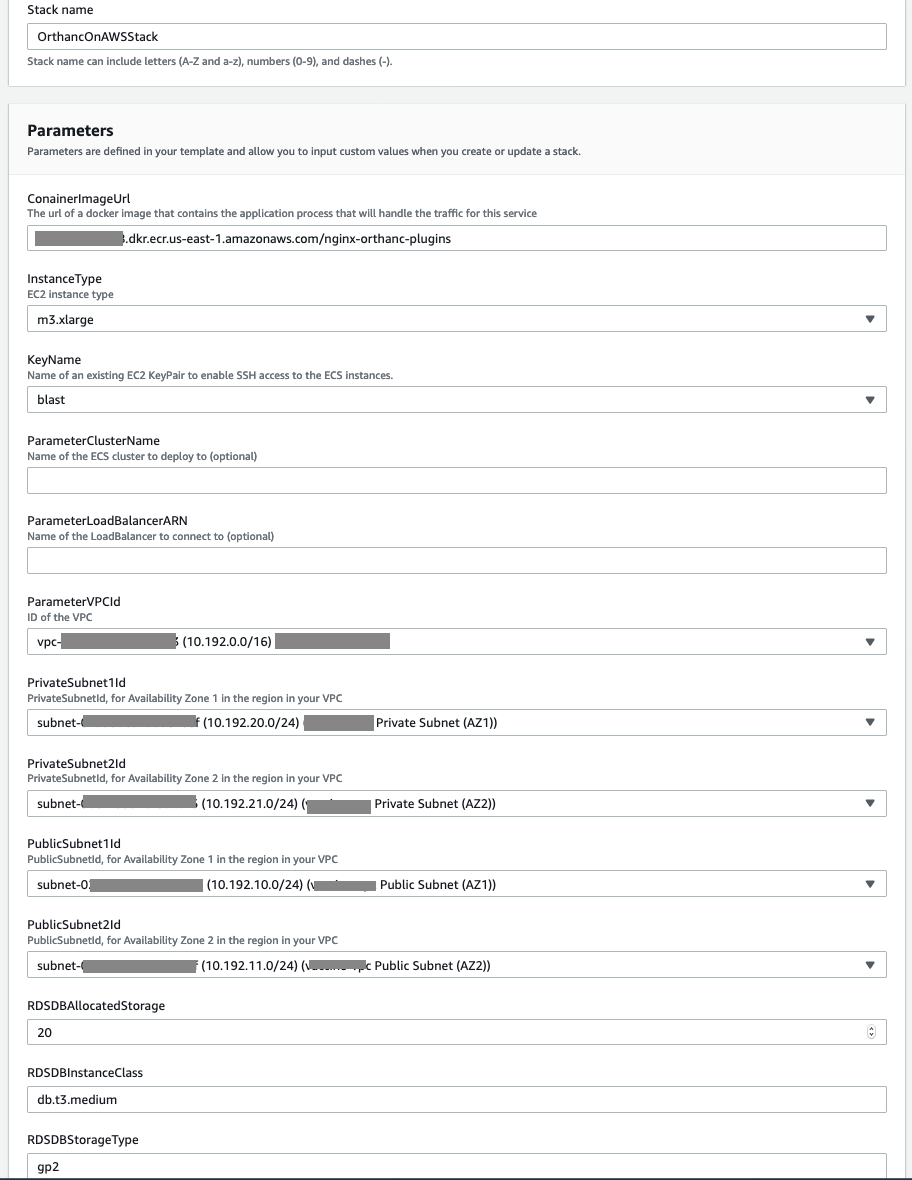
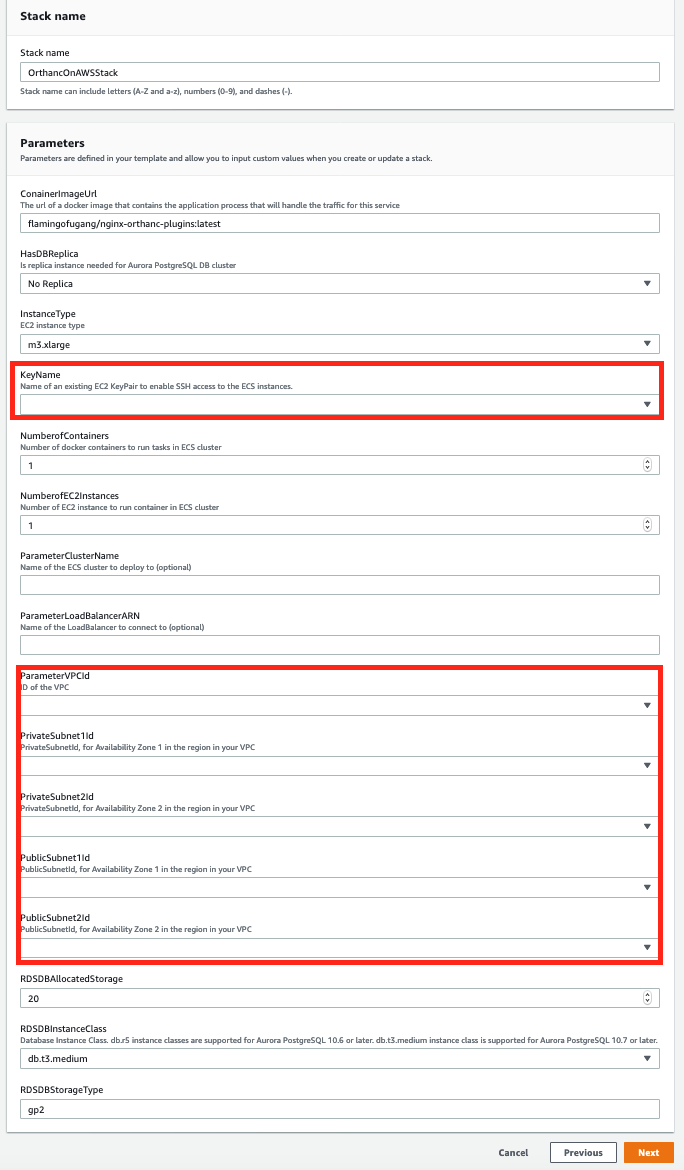
readme

Changed region(s): [[0.0, 0.0, 1.0, 1.0], [0.9825, 0.0, 1.0, 0.0923], [0.9518, 0.2462, 0.9825, 0.2769]]

diff --git a/nginx-orthanc-plugins-container/README.md b/nginx-orthanc-plugins-container/README.md
@@ -1,15 +1,21 @@
 
 ## Orthanc on AWS 
 
-Here is the architecture diagram of Orthanc on AWS by default ![diagram](Figures/orthanc-on-aws.jpg) 
+Here is the architecture diagram of Orthanc on AWS by default ![diagram](../Figures/orthanc-on-aws.jpg) 
 
 The single container instance and single DB instance have been tested well with Amazon SageMaker GroundTruth labeling job. 
 
-Go to nginx-orthanc-plugins-container folder. If you want to push the container image to [Amazon Elastic Container Registry](https://aws.amazon.com/ecr/), run the following script: `./build_and_push.sh`. 
+If you want to build your own container image and push the container image to [Amazon Elastic Container Registry](https://aws.amazon.com/ecr/), run the following script: `./build_and_push.sh`. 
 
 Alternatively, you can build docker container `docker build -t <tag> .` and push it to container repository manually. 
 
-After pushing the container image to ECR, copy the image URI (like <AWS Account ID>.dkr.ecr.<AWS Region>.amazonaws.com/nginx-orthanc-plugins]) that will be used in the following Cloudformation deployment.
+After pushing the container image to ECR, copy the image URI (like <AWS Account ID>.dkr.ecr.<AWS Region>.amazonaws.com/nginx-orthanc-plugins]) that will be used in the Cloudformation deployment.
 
-You can deploy the High Availability (HA) version of this stack:  
-![diagramha](Figures/orthanc-on-aws-ha.jpg) 
+You can deploy the CloudFormation (CFN) stack on AWS console using `orthanc-ec2-rds-cfn-tempalte.yaml` template in this folder, by filling up the parameters like ![this](../Figures/CFNdeployment.png) 
+
+Or you can deploy the CFN stack using AWS CLI:
+
+`aws cloudformation deploy --capabilities CAPABILITY_IAM --template-file ./orthanc-ec2-rds-cfn-tempalte.yaml --stack-name <stackname> --parameter-overrides ConainerImageUrl=<imageURI> KeyName=<EC2 Key> ParameterVPCId=<VPC ID> PrivateSubnet1Id=<Private Subnet in AZ1> PrivateSubnet2Id=<Private Subnet in AZ2> PublicSubnet1Id=<Public Subnet in AZ1> PublicSubnet2Id=<Public Subnet in AZ2> --profile <profilename> ParameterLoadBalancerARN=<LB ARN or Empty value for creating new one> ParameterClusterName=<ECS Cluster Name or Empty value for creating new one>`
+
+You can deploy the High Availability (HA) version of this stack in production:  
+![diagramha](../Figures/orthanc-on-aws-ha.jpg) 

diff --git a/README.md b/README.md
@@ -8,14 +8,10 @@ You will need two public subnets and two private subnets in a given Virtual Priv
 
 ### Deploy Orthanc DICOM Server on AWS ECS
 
-You can either deploy using AWS CLI:
-
-`aws cloudformation deploy --capabilities CAPABILITY_IAM --template-file ./orthanc-ec2-rds-cfn-tempalte.yaml --stack-name <stackname> --parameter-overrides ConainerImageUrl=<imageURI> KeyName=<EC2 Key> ParameterVPCId=<VPC ID> PrivateSubnet1Id=<Private Subnet in AZ1> PrivateSubnet2Id=<Private Subnet in AZ2> PublicSubnet1Id=<Public Subnet in AZ1> PublicSubnet2Id=<Public Subnet in AZ2> --profile <profilename> ParameterLoadBalancerARN=<LB ARN or Empty value for creating new one> ParameterClusterName=<ECS Cluster Name or Empty value for creating new one>`
-
-Or using 1-click deployment button:
+To deploy the CloudFormation (CFN) on AWS console, using 1-click deployment button:
 [![launchstackbutton](Figures/launchstack.png)](https://console.aws.amazon.com/cloudformation/home?region=us-east-1#/stacks/create/template?stackName=OrthancOnAWSStack&templateURL=https://orthanc-on-aws.s3.amazonaws.com/orthanc-ec2-rds-cfn-tempalte.yaml)
 
-You can fill up the parameters like ![this](Figures/CFNdeployment.png)
+The required information will be EC2 Key pair and network infrastructure.
 
 After the CFN stack is successfully created, the Orthanc endpoint URL will be available in the Outputs tab like ![this](Figures/CFNoutputs.png)
 
